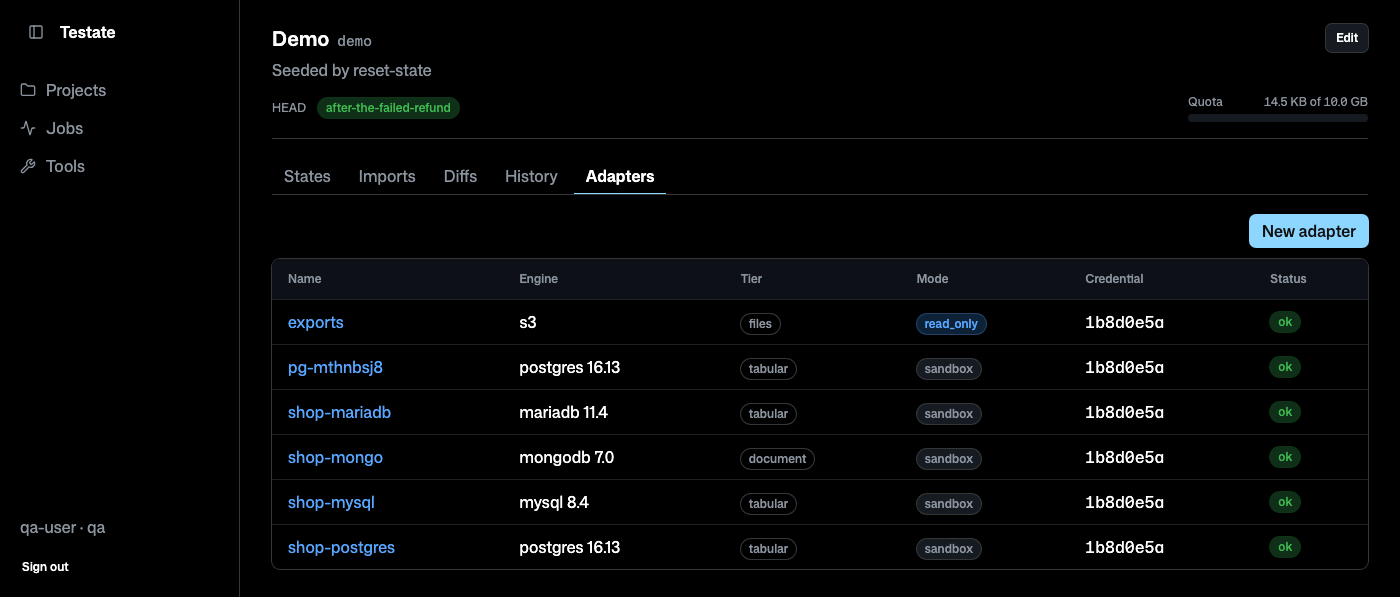
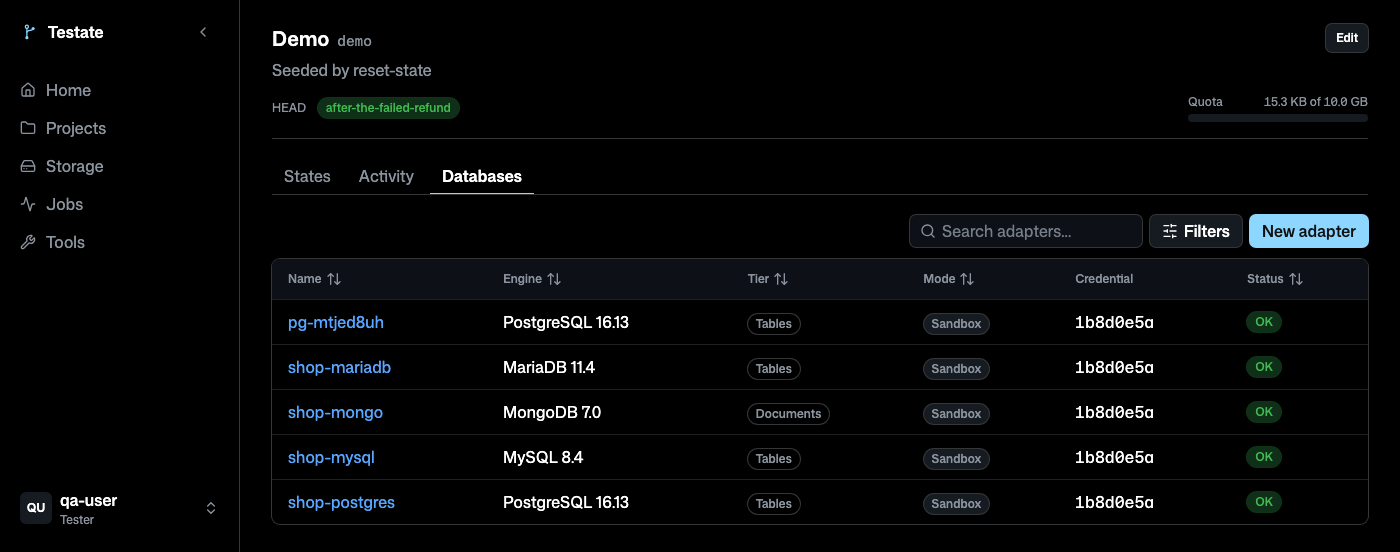
docs(readme): one screen, and what the product actually does now
The README opened with nine screenshots and a paragraph each, which is a tour
nobody reads before deciding whether to try something. It opens with the one
screen that is the whole idea instead: a project's states, newest first, HEAD
marked, Check out on every row. The rest of the tour is prose.

Three claims in it were no longer true. The MCP section still called the agent
surface read-only with no write tool, which stopped being true when agent
tokens started carrying a role; it now lists both halves and says which token
reaches which. The adapters tab is called Databases. The Files tier does more
than view and download.

The screenshots are regenerated against the reworked screens; the ones the
README no longer uses are kept because they are the current interface and the
site may want them.

`screens.e2e.ts` shoots the states list rather than the tree. The tree is the
more git-shaped picture, but it orders by lineage, so the states the rest of
the suite leaves behind sit above anything a person would want to read.

diff --git a/e2e/screens.e2e.ts b/e2e/screens.e2e.ts
@@ -87,7 +87,14 @@ test.describe("README screens", () => {
 
     await shoot("/projects", "projects");
     await shoot("/projects/demo", "adapters", "Databases");
-    await shoot("/projects/demo", "states", "States");
+    // The README leads with this one: many states, HEAD marked, the two this spec named at the
+    // top. The tree is the more git-shaped picture but it orders by lineage, so the states other
+    // specs leave behind (api-dedupe-b-mtjeb32u and friends) sit above anything readable.
+    await page.goto("/projects/demo");
+    await settle(page);
+    await openStatesList(page);
+    await fit(page);
+    await page.screenshot({ path: join(SHOTS, "states.png") });
     // One shot, not three: checkouts, diffs and imports share the Activity tab now.
     await shoot("/projects/demo", "activity", "Activity");
     await page.getByRole("link", { name: "Details" }).first().click();

diff --git a/README.md b/README.md
@@ -1,20 +1,14 @@
-![Testate: git for your test database. Your test server holds your app and its databases; Testate docks beside them as one container, takes snapshots and puts them back, and testers, developers, CI/CD, DevOps and AI agents come in through it](docs/assets/hero.svg)
+# Testate
+
+[![License: MIT](https://img.shields.io/github/license/PT-Perkasa-Pilar-Utama/testate)](./LICENSE) [![Release](https://img.shields.io/github/v/release/PT-Perkasa-Pilar-Utama/testate?include_prereleases)](https://github.com/PT-Perkasa-Pilar-Utama/testate/releases) [![Container](https://img.shields.io/badge/ghcr.io-testate-blue?logo=docker&logoColor=white)](https://github.com/PT-Perkasa-Pilar-Utama/testate/pkgs/container/testate) [![Bun](https://img.shields.io/badge/Bun-1.4-black?logo=bun)](https://bun.sh)
 
 **Git for your test database. Snapshot it, break it, put it back in seconds.**
 
-Testate is a self-hosted tool for QA teams. It takes data-only snapshots ("states") of the databases behind a system under test, restores them on demand, diffs them, imports fixtures, and lets an AI agent inspect them read-only. One Docker image, one volume, any sub-path.
+Self-hosted, one Docker image, one volume. Testate takes data-only snapshots of the databases behind a system under test, restores any of them on demand, diffs them, loads fixtures from a CSV or a spreadsheet, and lets an AI agent work on them over [MCP](#5-how-to-connect-an-ai-agent-to-a-project). PostgreSQL, MySQL, MariaDB and MongoDB, plus S3, SFTP and FTP for the files beside them. Nothing here is a stand-in: every engine in the table below is driven by a real connection, and the suite proves it against real servers.
 
-| Tier     | Engines                    | What you get                                          |
-| -------- | -------------------------- | ----------------------------------------------------- |
-| Tabular  | PostgreSQL, MySQL, MariaDB | view, snapshot, checkout, diff, extract, edit, import |
-| Document | MongoDB                    | view, snapshot, checkout, diff, extract               |
-| Files    | S3, SFTP, FTP              | view, download                                        |
+Reset the database before every test run from [CI](#6-how-to-integrate-into-a-cicd-pipeline), or from the screen below.
 
-Version 1.1.0-alpha. Every engine in the table is real, not a stand-in.
-
-## Quick start
-
-One container, no configuration file, to see what it does:
+![Every state of a project, newest first, with HEAD marked and Check out on each one](docs/assets/screens/states.png)
 
 ```sh
 docker run -d --name testate -p 7378:7378 -v testate-data:/data \
@@ -23,15 +17,30 @@ docker run -d --name testate -p 7378:7378 -v testate-data:/data \
   ghcr.io/pt-perkasa-pilar-utama/testate:1.1.0-alpha
 ```
 
-Open <http://localhost:7378> and sign in as `admin` with that password. Testate makes you change it on the first login.
+Open <http://localhost:7378>, sign in as `admin` with that password, and add a database under **Databases**. Where to point the host is the one thing that catches people out, so read [section 3](#3-connecting-to-a-database) first. Testate makes you change that password on the first login.
 
-From there: add a database under **Adapters**, take a snapshot under **States**, break something, then click **Check out** on that state to put it back. Where to point the host is the one thing that catches people out, so read [section 3](#3-connecting-to-a-database) before you add the adapter.
+That command is fine for a look. For anything you rely on, use Compose and an `.env` file: [how to install](#1-how-to-install).
 
-That command keeps everything in one Docker volume and is fine for a look. For anything you rely on, use Compose and an `.env` file: [How to install](#1-how-to-install).
+| Tier     | Engines                    | What you get                                           |
+| -------- | -------------------------- | ------------------------------------------------------ |
+| Tabular  | PostgreSQL, MySQL, MariaDB | view, snapshot, checkout, diff, extract, edit, import  |
+| Document | MongoDB                    | view, snapshot, checkout, diff, extract                |
+| Files    | S3, SFTP, FTP              | view, preview, download, insert, rename, delete, batch |
+
+Version 1.1.0-alpha.
+
+## Why Testate
+
+- **A reset takes seconds, not a migration run.** A state is the data only. Putting one back writes rows, so a suite that needs a known starting point gets one without rebuilding a schema.
+- **Every database in a project at once.** One snapshot covers all of them, and one checkout restores all of them, with a per-adapter result for each.
+- **Nothing is written by accident.** A file store is `read_only` until an admin opens it, and any adapter can be tightened to `read_only` by a tester and only loosened by an admin. Deleting a project or an adapter returns its databases to the state they joined with, first.
+- **You can see what a test run did.** Diff two states, or a state against the live database, down to the changed cell.
+- **Agents get a real seat.** An agent token reaches `/mcp` and nothing else, its role decides whether it may write, and column masks apply before it ever sees a value.
+- **Your data stays yours.** One container, one volume, no account, no telemetry. Secrets are sealed with a key you generate and hold.
 
 ## Contents
 
-- [Quick start](#quick-start)
+- [Why Testate](#why-testate)
 - [What you get](#what-you-get)
 - [1. How to install](#1-how-to-install)
 - [2. First-time setup](#2-first-time-setup)
@@ -51,51 +60,37 @@ That command keeps everything in one Docker volume and is fine for a look. For a
 
 ## What you get
 
-**Start with a project per system under test.** It owns the databases behind that system, the
-states you take of them, and everything you do to them.
+**A project per system under test.** It owns the databases behind that system, the states you take
+of them, and everything you do to them. A project opens on its states, with HEAD marked.
 
-![The projects list, each with its slug, where its HEAD points, and when it last changed](docs/assets/screens/projects.png)
+**Databases and file stores, side by side.** Each adapter reports its engine and version, what your
+login is allowed to do there, and whether the database is safe to reset. A file store sits in the
+same project and gets its own screen: browse, preview, upload, rename, make a folder, delete a
+batch.
 
-**Point it at the databases behind the system under test.** Each adapter reports its engine and
-version, what your login is allowed to do, and whether the database is safe to reset. Object storage
-sits in the same list.
+**Snapshot, and put it back.** A state is data only, taken across every database in the project at
+one moment, and it says who took it and what it cost. **Check out** restores one; the Activity tab
+lists every restore with its per-adapter result and a retry.
 
-![The adapters tab, listing every adapter in the project with its engine, tier, mode and status](docs/assets/screens/adapters.png)
+**See what a test run changed.** Diff two states, or a state against the live database, and open
+the comparison full width: the tables that moved on the left, both sides of every row on the right,
+and the changed cell highlighted the way a code review highlights a line.
 
-**Snapshot them.** A state is data only, taken across every database in the project at once, and it
-says who took it and what it cost. A project opens on this tab, a timeline with the current HEAD
-marked.
+**Read and edit the rows.** Filter, page by keyset, follow a foreign key, see the tables and their
+relations as a diagram, export a whole table as CSV or JSON with no row cap, or turn on write mode
+and edit a row with the types the column actually has.
 
-![The states tab, a timeline of snapshots with HEAD marked, kind, size and author](docs/assets/screens/states.png)
+**Run your own SQL.** A read-only console with saved queries and a history, so the check you run
+after every reset is one click away.
 
-**Put them back.** Click **Check out** on any state to restore it; the History tab lists every
-checkout with its per-adapter results and a retry action.
+**Load fixtures.** Upload a CSV or a spreadsheet, or take one straight from a file store, say how
+each column is read, check it, then import. The check is the guard: nothing is written until it
+comes back clean, and the rows a run refused come back as a file you can fix and send again.
 
-![The History tab, listing checkouts with per-adapter results and a retry action](docs/assets/screens/checkouts.png)
-
-**See what a test run changed.** Diff two states, or a state against the live database, and drill
-into the rows.
-
-![A diff opened, listing added, removed and changed rows per table across four databases](docs/assets/screens/diffs.png)
-
-**Read and edit the rows.** Filter, page by keyset, follow a foreign key, export a whole table as
-CSV or JSON with no row cap, or turn on write mode and edit a row with the types the column
-actually has.
-
-![The data grid for a table, with filters, write mode and typed columns](docs/assets/screens/grid.png)
-
-**Run your own SQL.** A read-only console with saved queries, so the check you run after every
-reset is one click away.
-
-![The query console, running a read-only SELECT with its result and a saved query](docs/assets/screens/query.png)
-
-**Load fixtures.** Upload a CSV or XLSX, map the columns, dry-run it, then import for real.
-
-![The imports tab, listing import runs with their counts](docs/assets/screens/imports.png)
-
-**Let an agent look.** Testate speaks MCP, so Claude or any agent can read schemas, page rows, run
-read-only queries, and read your snapshots. The token it uses reaches nothing but `/mcp`, and it
-cannot write.
+**Let an agent work.** Testate speaks MCP, so Claude or any agent can read schemas, page rows, run
+read-only queries and read your snapshots. Give the token the Tester role and it can also change
+rows in a sandbox, take a state, and put one back. The token reaches `/mcp` and nothing else, and
+column masks apply before it sees a value.
 
 ## 1. How to install
 
@@ -136,7 +131,7 @@ If the last admin forgets their password, nobody else can reset it from the dash
 
 ## 3. Connecting to a database
 
-Open a project, go to **Adapters**, and click **New adapter**. For a database engine (PostgreSQL, MySQL, MariaDB, MongoDB) the form asks for Host, Port, Database, User, and Password. Where you point "Host" depends on where the database actually runs.
+Open a project, go to **Databases**, and click **New adapter**. For a database engine (PostgreSQL, MySQL, MariaDB, MongoDB) the form asks for Host, Port, Database, User, and Password. Where you point "Host" depends on where the database actually runs.
 
 Testate connects out to the database from inside its own container. `127.0.0.1` or `localhost` in that form means the Testate container itself, never the machine it runs on. The default address deny list also blocks `127.0.0.0/8` and `::1/128` outright, so a loopback address will not connect even by accident.
 
@@ -182,9 +177,9 @@ Once an adapter is saved, `POST /api/v1/projects/{slug}/adapters/{id}/retest` re
 
 ## 5. How to connect an AI agent to a project
 
-Testate exposes a read-only MCP (Model Context Protocol) endpoint so an agent can inspect a project's databases without ever getting a write path.
+Testate exposes an MCP (Model Context Protocol) endpoint. What the agent may do there is the token's role, not the protocol's: a Guest token reads and nothing else, a Tester token also changes rows in a sandbox, takes a state, and puts one back.
 
-1. As an admin, open **Tokens** and create a token of kind **agent**. Choose a name, a project scope, and an expiry (default 90 days, maximum 365).
+1. As an admin, open **Tokens** and create a token of kind **agent**. Choose a name, a role (**Guest** to read, **Tester** to write), a project scope, and when it expires: in 90 days, on a date you pick up to a year out, or never.
 2. Copy the token: Testate shows it once. It reads `tst_` followed by 43 characters. Give the agent the endpoint and the token.
 
 Claude Code:
@@ -211,7 +206,11 @@ Any MCP client:
 }
 ```
 
-What the agent can reach: an agent token is accepted only on `/api/v1/mcp`; every other route answers `403`. On that endpoint it gets read-only tools: `list_projects`, `list_adapters`, `list_tables`, `describe_table`, `page_rows`, `get_row`, `run_readonly_query`, `extract_fixture`, `list_states`, `get_state`, `diff_summary`, `list_files`, `preview_file`. They are capped at 200 rows a page (1000 max), 1 MiB a result, 15 seconds a query. Column policies mask sensitive values before the agent ever sees them; there is no unmask option and no write tool. Every call is audited with the tool name, an argument hash, the project, the adapter, and the outcome.
+What the agent can reach: an agent token is accepted only on `/api/v1/mcp`; every other route answers `403`.
+
+Every agent reads: `help`, `list_projects`, `list_adapters`, `list_tables`, `describe_table`, `page_rows`, `get_row`, `run_readonly_query`, `extract_fixture`, `list_states`, `get_state`, `diff_summary`, `list_files`, `preview_file`. A **Tester** token gets seven more: `run_write_query`, `end_write_session`, `take_snapshot`, `checkout_state`, `get_job`, `upload_file`, `delete_file`. A Guest sees them in `tools/list` and is refused with `403 role` if it calls one, which is a clearer answer than a tool that is not there.
+
+The caps hold whatever the role: 200 rows a page (1000 max), 1 MiB a result, 15 seconds a query, a byte budget per token. `run_readonly_query` runs inside a read-only transaction for every role, so a read never becomes a write by accident, and writing takes the write tool and a write session. Column policies mask sensitive values before the agent sees them and there is no unmask. Every call is audited with the tool name, an argument hash, the project, the adapter, and the outcome.
 
 Full detail: [docs/AGENT_ACCESS.md](docs/AGENT_ACCESS.md).
 
